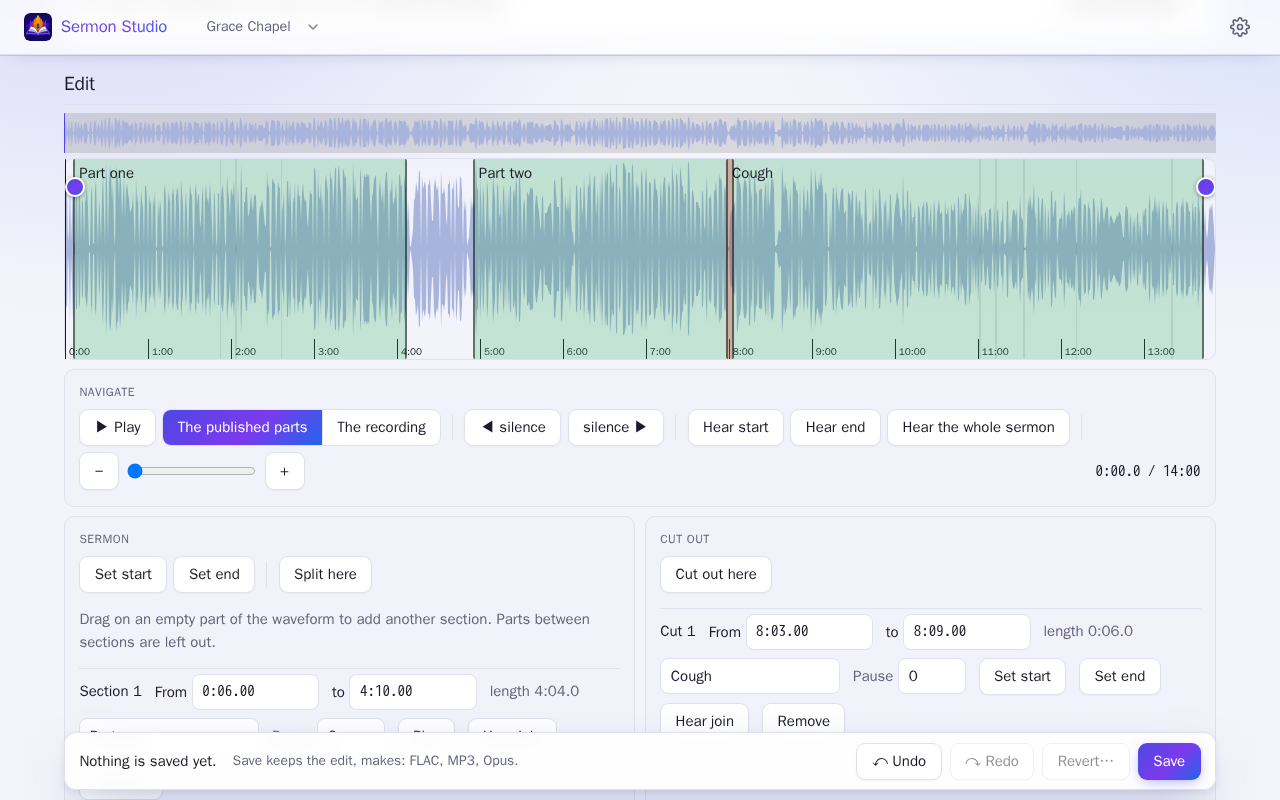
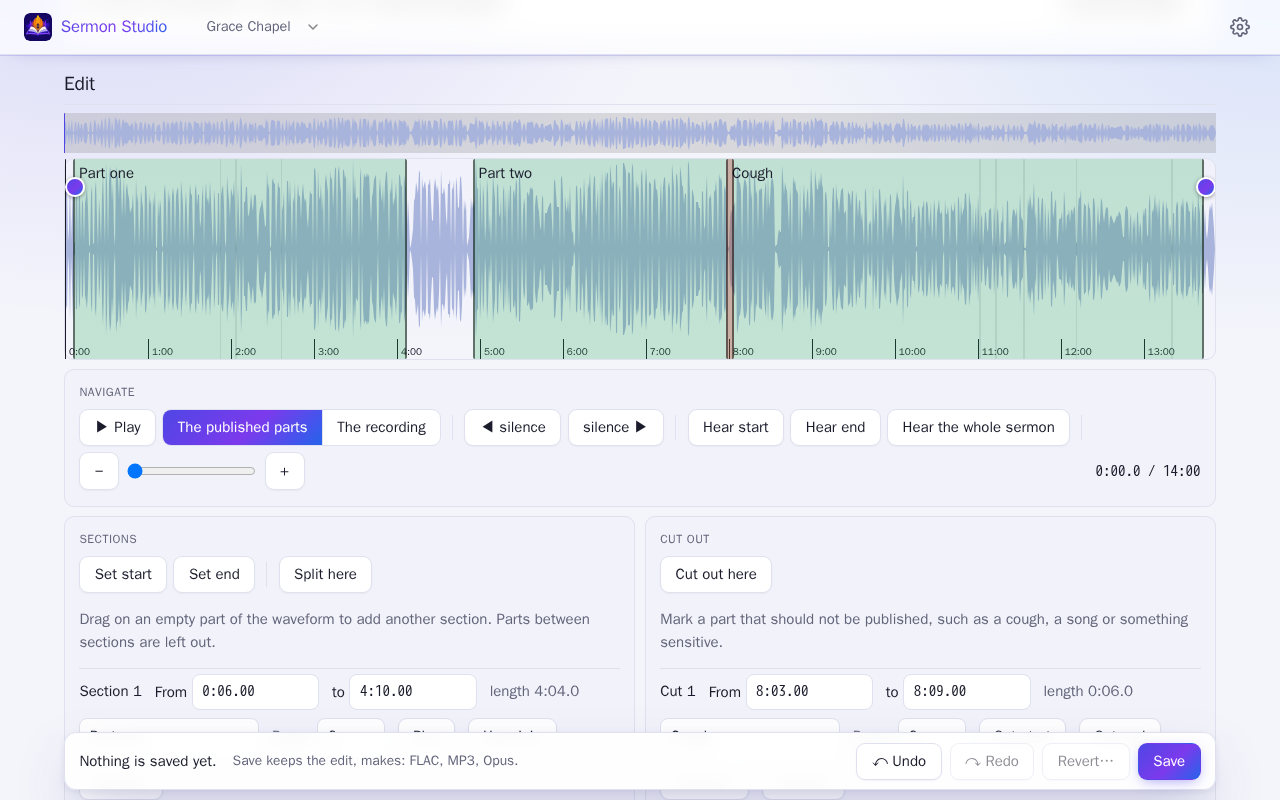
Editor: Sections and Section; "Lett" for light compression; help for Cut out
The editor's group of sections is called Sections, and one section is a
Section (numbered when there are more), since the whole page is the sermon.
t() takes a context ('compression|Light') so one English word can have two
translations: compression is "lett", the theme "lys". Cut out gets a line
saying what it is for.

diff --git a/web/e2e/tests/web.spec.js b/web/e2e/tests/web.spec.js
@@ -27,7 +27,7 @@ async function openEditor(page, folder, { timeout = 60_000, keep = false } = {})
   if (!keep) await clearProposed(page, timeout);
 }
 
-// sectionHint is the line under the Sermon buttons; it is set once the waveform is ready.
+// sectionHint is the line under the Sections buttons; it is set once the waveform is ready.
 const sectionHint = (page) => page.locator('.section-hint');
 async function clearProposed(page, timeout = 60_000) {
   await expect(sectionHint(page)).not.toHaveText('', { timeout });
@@ -80,20 +80,20 @@ test('cut on the waveform: drag, fields, keys, playback', async ({ page }) => {
   expect(sel.start).toBeLessThan(33);
   expect(sel.end).toBeGreaterThan(67);
   expect(sel.end).toBeLessThan(73);
-  await expect(page.getByLabel('Sermon from')).toHaveValue(/^0:[23]\d\.\d\d$/);
+  await expect(page.getByLabel('Section from')).toHaveValue(/^0:[23]\d\.\d\d$/);
 
   // Typing in the fields moves the selection.
-  await page.getByLabel('Sermon from').fill('0:21');
-  await page.getByLabel('Sermon from').press('Enter');
-  await page.getByLabel('Sermon to').fill('79.5');
-  await page.getByLabel('Sermon to').press('Enter');
+  await page.getByLabel('Section from').fill('0:21');
+  await page.getByLabel('Section from').press('Enter');
+  await page.getByLabel('Section to').fill('79.5');
+  await page.getByLabel('Section to').press('Enter');
   sel = await selection(page);
   expect(sel.start).toBeCloseTo(21, 2);
   expect(sel.end).toBeCloseTo(79.5, 2);
   await expect(page.getByText('Length 0:58.5', { exact: true })).toBeVisible();
-  await page.getByLabel('Sermon to').fill('nonsense');
-  await page.getByLabel('Sermon to').press('Enter');
-  await expect(page.getByLabel('Sermon to')).toHaveClass(/invalid/);
+  await page.getByLabel('Section to').fill('nonsense');
+  await page.getByLabel('Section to').press('Enter');
+  await expect(page.getByLabel('Section to')).toHaveClass(/invalid/);
   expect((await selection(page)).end).toBeCloseTo(79.5, 2);
 
   // Keys: ] jumps to silence edges, s/e mark at the playhead...
@@ -106,7 +106,7 @@ test('cut on the waveform: drag, fields, keys, playback', async ({ page }) => {
   await page.keyboard.press('s');
   expect((await selection(page)).start).toBeCloseTo(22, 0);
   // ...but not while typing in a field.
-  await page.getByLabel('Sermon from').focus();
+  await page.getByLabel('Section from').focus();
   const before = await currentTime(page);
   await page.keyboard.press(']');
   expect(await currentTime(page)).toBe(before);
@@ -172,7 +172,7 @@ test('cut parts out of the sermon: button, fields, shift-drag, checked and remov
   const cuts = () => editor(page, () => window.__editor.cuts);
   // Navigation and cutting are separate groups; cutting needs the sermon first.
   await expect(page.locator('.group', { hasText: 'Navigate' }).getByRole('button', { name: 'silence ▶' })).toBeVisible();
-  await expect(page.locator('.group', { hasText: 'Sermon' }).getByRole('button', { name: 'Set start' })).toBeVisible();
+  await expect(page.locator('.group', { hasText: 'Sections' }).getByRole('button', { name: 'Set start' })).toBeVisible();
   const cutOut = page.locator('.group', { hasText: 'Cut out' });
   await expect(cutOut.getByRole('button', { name: 'Cut out here' })).toBeDisabled();
 
@@ -241,7 +241,7 @@ test('cut parts out of the sermon: button, fields, shift-drag, checked and remov
   await expect(page.locator('.cut.partly .cut-warn')).toContainText('is only partially part of a section');
   await page.locator('.cut.partly').getByRole('button', { name: 'Remove' }).click();
   // A label on a section and on a cut: kept with the edit.
-  await page.getByLabel('Sermon label').fill('Main part');
+  await page.getByLabel('Section label').fill('Main part');
   await page.getByLabel('Cut 1 label').fill('Song');
   await expect.poll(() => {
     const st = JSON.parse(fs.readFileSync(path.join(DATA, 'root/2026/2026-10-04/recording.json'), 'utf8'));
@@ -311,7 +311,7 @@ test('several sections: drag to add, gaps left out, overlaps merge, keys, remove
   await page.getByLabel('Section 1 to').fill('45');
   await page.getByLabel('Section 1 to').press('Enter');
   expect(await sections(page)).toEqual([{ start: 10, end: 70 }]);
-  await expect(page.getByLabel('Sermon from')).toHaveValue('0:10.00');
+  await expect(page.getByLabel('Section from')).toHaveValue('0:10.00');
 
   // Removing the last section leaves nothing selected, and nothing to run.
   await page.locator('.section').getByRole('button', { name: 'Remove' }).click();
@@ -398,8 +398,8 @@ test('a recording not cut yet starts with the sermon set to all of it but the si
   // It is only a start: nothing is kept until something is changed.
   await page.waitForTimeout(1500);
   expect(read().adjusted ?? null).toBeNull();
-  await page.getByLabel('Sermon from').fill('5');
-  await page.getByLabel('Sermon from').press('Enter');
+  await page.getByLabel('Section from').fill('5');
+  await page.getByLabel('Section from').press('Enter');
   await expect(page.getByText('Changes kept.')).toBeVisible();
   await expect(sectionHint(page)).toContainText('Drag on an empty part of the waveform');
   expect(read().adjusted.sections[0].start).toBe(5);
@@ -469,10 +469,10 @@ test('the page: Input file, Edit, Metadata, Processing, Output', async ({ page }
 
 test('Save makes the chosen formats, and only what is missing or out of date', async ({ page }) => {
   await openEditor(page, '2026/2026-10-04');
-  await page.getByLabel('Sermon from').fill('0:21');
-  await page.getByLabel('Sermon from').press('Enter');
-  await page.getByLabel('Sermon to').fill('1:19');
-  await page.getByLabel('Sermon to').press('Enter');
+  await page.getByLabel('Section from').fill('0:21');
+  await page.getByLabel('Section from').press('Enter');
+  await page.getByLabel('Section to').fill('1:19');
+  await page.getByLabel('Section to').press('Enter');
   await pick(page, 'FLAC').click();
   await pick(page, 'Opus').click();
   await setFade(page, 'fadeIn', 1);
@@ -518,8 +518,8 @@ test('Save makes the chosen formats, and only what is missing or out of date', a
 
 test('a run can be cancelled', async ({ page }) => {
   await openEditor(page, '2026/2026-10-04');
-  await page.getByLabel('Sermon from').fill('0:01');
-  await page.getByLabel('Sermon from').press('Enter');
+  await page.getByLabel('Section from').fill('0:01');
+  await page.getByLabel('Section from').press('Enter');
   await expect(pill(page, 'MP3')).toContainText('out of date, will be made again');
   await page.getByRole('button', { name: 'Save', exact: true }).click();
   await page.getByRole('button', { name: 'Cancel', exact: true }).click();
@@ -622,10 +622,10 @@ test('a 90-minute recording stays responsive', async ({ page }) => {
     await page.evaluate(() => new Promise((r) => requestAnimationFrame(r)));
   });
   await timed('select 1:00:00 to 1:25:00', async () => {
-    await page.getByLabel('Sermon from').fill('1:00:00');
-    await page.getByLabel('Sermon from').press('Enter');
-    await page.getByLabel('Sermon to').fill('1:25:00');
-    await page.getByLabel('Sermon to').press('Enter');
+    await page.getByLabel('Section from').fill('1:00:00');
+    await page.getByLabel('Section from').press('Enter');
+    await page.getByLabel('Section to').fill('1:25:00');
+    await page.getByLabel('Section to').press('Enter');
   });
   expect((await selection(page)).start).toBeCloseTo(3600, 1);
   await page.locator('h1').click();
@@ -984,7 +984,7 @@ test('undo and redo: buttons and keys, back to no section, kept, a field keeps i
   await expect(redoButton).toBeDisabled();
 
   // In a field, ctrl+z is the field's own undo, not the edit's.
-  const label = page.getByLabel('Sermon label');
+  const label = page.getByLabel('Section label');
   await label.fill('Preken');
   await label.press('Control+z');
   expect(await editor(page, () => window.__editor.cuts)).toEqual([{ start: 50, end: 55 }]);

diff --git a/web/static/editor.js b/web/static/editor.js
@@ -101,6 +101,7 @@ export async function editorView(view, path, config) {
   const sectionHint = h('p', { class: 'muted section-hint' });
   const cutList = h('div', { class: 'cuts' });
   const cutHint = h('p', { class: 'muted' });
+  const cutHelp = h('p', { class: 'muted' }, t('Mark a part that should not be published, such as a cough, a song or something sensitive.'));
   const inputPanel = h('div', { class: 'panel input-file' });
   const channelWarning = h('p', { class: 'notice', role: 'status' });
   const pills = h('div', { class: 'pills', role: 'group', 'aria-label': t('Formats') });
@@ -310,7 +311,7 @@ export async function editorView(view, path, config) {
               button('+', t('Zoom in (+)'), () => { zoom.value = Math.min(100, +zoom.value + 10); applyZoom(); })),
             clock)),
         h('div', { class: 'group' },
-          h('strong', {}, t('Sermon')),
+          h('strong', {}, t('Sections')),
           h('div', { class: 'toolbar' },
             button(t('Set start'), t('The section at the playhead (or the next one) starts there (s)'), markStart),
             button(t('Set end'), t('The section at the playhead (or the one before) ends there (e)'), markEnd),
@@ -323,6 +324,7 @@ export async function editorView(view, path, config) {
           h('strong', {}, t('Cut out')),
           h('div', { class: 'toolbar' },
             addCutButton),
+          cutHelp,
           cutHint,
           cutList)),
       h('p', { class: 'touch-hint' },
@@ -790,8 +792,8 @@ export async function editorView(view, path, config) {
   // values. With none, an empty row makes the first one from typed times.
   function renderSections() {
     if (!sections.length) {
-      const startIn = h('input', { type: 'text', class: 'time', placeholder: t('start'), 'aria-label': t('{name} from', { name: t('Sermon') }) });
-      const endIn = h('input', { type: 'text', class: 'time', placeholder: t('end'), 'aria-label': t('{name} to', { name: t('Sermon') }) });
+      const startIn = h('input', { type: 'text', class: 'time', placeholder: t('start'), 'aria-label': t('{name} from', { name: t('Section') }) });
+      const endIn = h('input', { type: 'text', class: 'time', placeholder: t('end'), 'aria-label': t('{name} to', { name: t('Section') }) });
       const edit = () => {
         if (rebuilding) return;
         const start = startIn.value.trim() === '' ? 0 : parseTime(startIn.value);
@@ -804,7 +806,7 @@ export async function editorView(view, path, config) {
         input.addEventListener('change', edit);
         input.addEventListener('keydown', (e) => { if (e.key === 'Enter') { edit(); input.blur(); } });
       }
-      rebuild(sectionList, h('div', { class: 'section' }, h('strong', {}, t('Sermon')),
+      rebuild(sectionList, h('div', { class: 'section' }, h('strong', {}, t('Section')),
         h('label', {}, t('From'), ' ', startIn), h('label', {}, t('to'), ' ', endIn)));
       syncSections();
       syncCuts();
@@ -812,7 +814,7 @@ export async function editorView(view, path, config) {
     }
     rebuild(sectionList, ...sections.map((x, i) => {
       const r = x.region;
-      const name = sections.length > 1 ? t('Section {n}', { n: i + 1 }) : t('Sermon');
+      const name = sections.length > 1 ? t('Section {n}', { n: i + 1 }) : t('Section');
       const startIn = x.startIn = h('input', { type: 'text', class: 'time', 'aria-label': t('{name} from', { name }) });
       const endIn = x.endIn = h('input', { type: 'text', class: 'time', 'aria-label': t('{name} to', { name }) });
       x.info = h('span', { class: 'muted' });
@@ -1017,7 +1019,7 @@ export async function editorView(view, path, config) {
       c.warn.hidden = !c.warn.textContent;
     }
     if (!sections.length && openCut) cancelCut();
-    cutHint.textContent = !sections.length ? t('Select the sermon first. Then cut out parts you do not want, such as a song.')
+    cutHint.textContent = !sections.length ? t('Select the sermon first.')
       : openCut ? t('Play or move the playhead to where the cut ends, then press End the cut here (c). Escape lets it go.')
         : cuts.length ? '' : t('Nothing cut out. Press the button (or c) where a cut starts and again where it ends, or shift-drag on the waveform.');
     if (addCutButton) addCutButton.disabled = !sections.length;
@@ -1389,7 +1391,7 @@ export async function editorView(view, path, config) {
         hint(t('Taking out noise also takes out some of the room\'s own sound, such as its reverb. Less reduction, or more room sound kept, sounds more natural; more sounds cleaner.'))),
       group(t('Levels'),
         choice('leveling', t('Leveling'), strengths(t('Off'), t('Gentle'), t('Normal'), t('Strong'))),
-        choice('compression', t('Compression'), [['off', t('Off')], ['light', t('Light')], ['normal', t('Normal')], ['strong', t('Strong')]]),
+        choice('compression', t('Compression'), [['off', t('Off')], ['light', t('compression|Light')], ['normal', t('Normal')], ['strong', t('Strong')]]),
         hint(t('Leveling brings quiet speech and loud parts closer. Compression narrows the loudness range further: light is usually enough.'))),
       group(t('Loudness'),
         num('targetLufs', t('Target loudness (LUFS)'), 0.5, -70, -5),

diff --git a/web/static/locales.js b/web/static/locales.js
@@ -122,7 +122,6 @@ export const nb = {
   "Next silence edge (])": "Neste stillhetskant (])",
   "Zoom out (-)": "Zoom ut (-)",
   "Zoom in (+)": "Zoom inn (+)",
-  "Sermon": "Preken",
   "Set start": "Sett start",
   "The section at the playhead (or the next one) starts there (s)": "Delen ved avspillingsmarkøren (eller den neste) starter der (s)",
   "Set end": "Sett slutt",
@@ -182,7 +181,11 @@ export const nb = {
   "Hear join": "Hør skjøten",
   "Cut {n} does not have any effect as it is not in an included section": "Utklipp {n} har ingen effekt, siden det ikke ligger i en del som er med",
   "Cut {n} is only partially part of a section": "Utklipp {n} ligger bare delvis i en del",
-  "Select the sermon first. Then cut out parts you do not want, such as a song.": "Velg prekenen først. Klipp deretter ut deler du ikke vil ha, for eksempel en sang.",
+  "Select the sermon first.": "Velg prekenen først.",
+  "Mark a part that should not be published, such as a cough, a song or something sensitive.": "Merk en del som ikke skal publiseres, for eksempel et host, en sang eller noe sensitivt.",
+  "Sections": "Deler",
+  "Section": "Del",
+  "compression|Light": "Lett",
   "and": "og",
   "Length {time}": "Lengde {time}",
   "Keeping…": "Beholder …",
@@ -669,7 +672,6 @@ export const nn = {
   "Next silence edge (])": "Neste stilnekant (])",
   "Zoom out (-)": "Zoom ut (-)",
   "Zoom in (+)": "Zoom inn (+)",
-  "Sermon": "Preike",
   "Set start": "Set start",
   "The section at the playhead (or the next one) starts there (s)": "Delen ved avspelingsmarkøren (eller den neste) startar der (s)",
   "Set end": "Set slutt",
@@ -729,7 +731,11 @@ export const nn = {
   "Hear join": "Høyr skøyten",
   "Cut {n} does not have any effect as it is not in an included section": "Utklipp {n} har ingen effekt, sidan det ikkje ligg i ein del som er med",
   "Cut {n} is only partially part of a section": "Utklipp {n} ligg berre delvis i ein del",
-  "Select the sermon first. Then cut out parts you do not want, such as a song.": "Vel preika først. Klipp deretter ut delar du ikkje vil ha, til dømes ein song.",
+  "Select the sermon first.": "Vel preika først.",
+  "Mark a part that should not be published, such as a cough, a song or something sensitive.": "Merk ein del som ikkje skal publiserast, til dømes eit host, ein song eller noko sensitivt.",
+  "Sections": "Delar",
+  "Section": "Del",
+  "compression|Light": "Lett",
   "and": "og",
   "Length {time}": "Lengd {time}",
   "Keeping…": "Held på …",

diff --git a/web/static/i18n.js b/web/static/i18n.js
@@ -30,7 +30,7 @@ export function setLang(code) {
 }
 
 export function t(text, params) {
-  const out = dict[text] ?? text;
+  const out = dict[text] ?? (text?.includes('|') ? text.slice(text.indexOf('|') + 1) : text); // 'context|Text': the context tells one word's meanings apart
   return params ? out.replace(/\{(\w+)\}/g, (_, k) => params[k] ?? '') : out;
 }
 

diff --git a/docs/guide.md b/docs/guide.md
@@ -62,14 +62,14 @@ Each can have a label, which shows on the waveform.
 - **Editor:** the whole service as a waveform with a minimap overview, like Audacity or
   ocenaudio. The controls are in three groups. **Navigate:** play, jump between silences
   (grey on the waveform), zoom (slider, `+`/`-`, or scroll over the waveform: zooms at the
-  mouse; shift+scroll moves along; *Settings › Waveform* can make it need ctrl/cmd). **Sermon:** a recording
+  mouse; shift+scroll moves along; *Settings › Waveform* can make it need ctrl/cmd). **Sections:** the parts of the recording that make the sermon. A recording
   not cut yet opens with the sermon set to all of it but the silence at its start and end (only a start: nothing
   is kept until something is changed); drag the edges to adjust, set the start and end at the playhead, or drag on
   the waveform to select another part;
   *Hear start*, *Hear end* and *Hear the whole sermon* (in Navigate) check the cut as it will be published. The from/to fields follow the
   selection and can be typed in (`h:mm:ss`, `mm:ss` or seconds, with decimals if needed).
   The sermon can be **several sections** (below). **Cut out:** parts of the sermon that should
-  go, such as a song in the middle (below).
+  not be published, such as a cough, a song in the middle or something sensitive (below).
   Keys: `space` play, `s`/`e` start/end at the playhead (of the section there, or the next/previous one), `c` start or end a cut, `x` split,
   `[`/`]` previous/next silence, ←/→ 1 s (shift 0.1 s), `p` play the sermon, `ctrl+z` undo; *Keys…* under the waveform (or `?`)
   lists them all.
